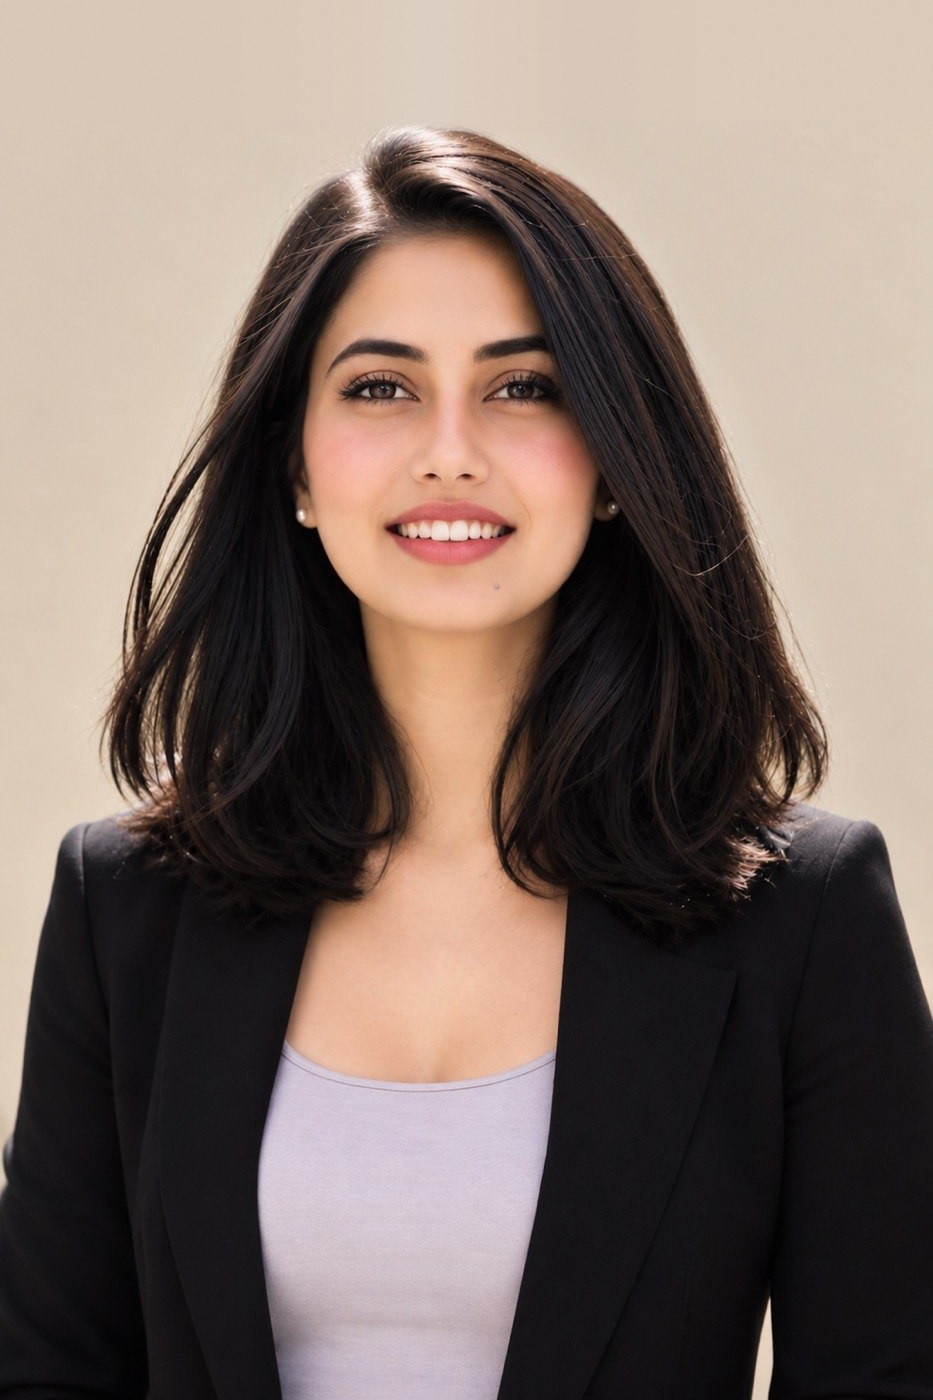
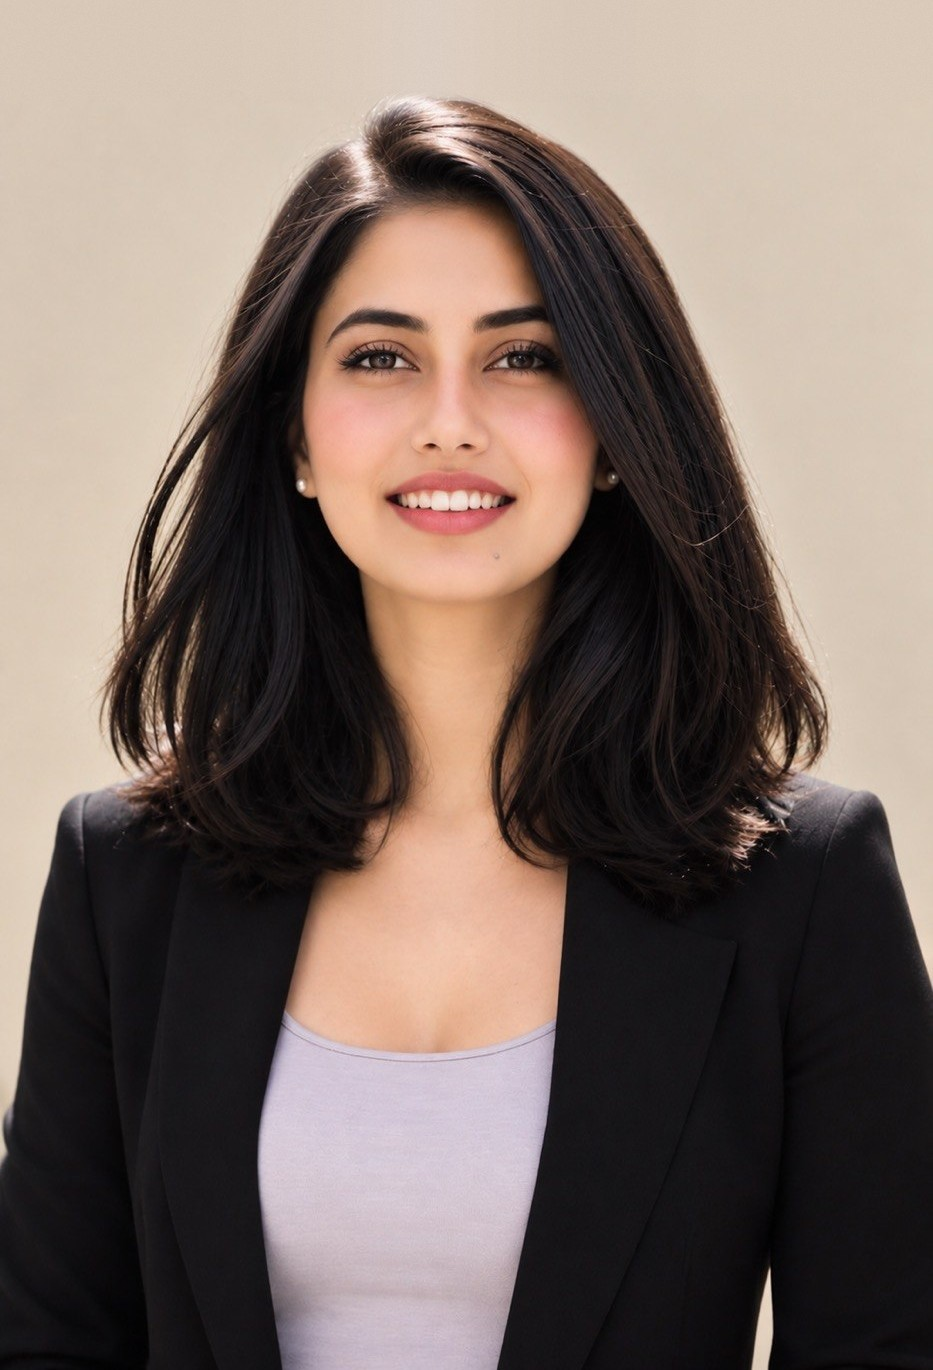
Set hero portrait headroom to 90px
Claude-Session: https://claude.ai/code/session_01AzR9C6W97ninb1X9sfMRBP

diff --git a/layouts/landing/list.html b/layouts/landing/list.html
@@ -136,7 +136,7 @@ nav{
   border-radius:18px;overflow:hidden;
   background:linear-gradient(160deg,var(--cream) 0%,var(--blush) 45%,var(--rose) 100%);
   border:1px solid var(--rule);
-  aspect-ratio:933/1400;width:100%;
+  aspect-ratio:933/1370;width:100%;
   display:flex;flex-direction:column;align-items:center;justify-content:center;gap:.75rem;
   position:relative;cursor:pointer;
   box-shadow:0 8px 40px rgba(39,21,16,.08);
@@ -601,7 +601,7 @@ footer span{font-size:.7rem;font-weight:600;color:rgba(255,255,255,.55);letter-s
   .pub-links{flex-direction:row;align-items:flex-start;}
   .ticker{display:none;}
   .h-right{flex-direction:column;}
-  .h-photo{flex:none;aspect-ratio:933/1400;width:100%;}
+  .h-photo{flex:none;aspect-ratio:933/1370;width:100%;}
   .hobby-grid{grid-template-columns:repeat(2,1fr);}
   .proj-card{grid-template-columns:1fr;gap:1.5rem;padding:1.5rem;}
 }
